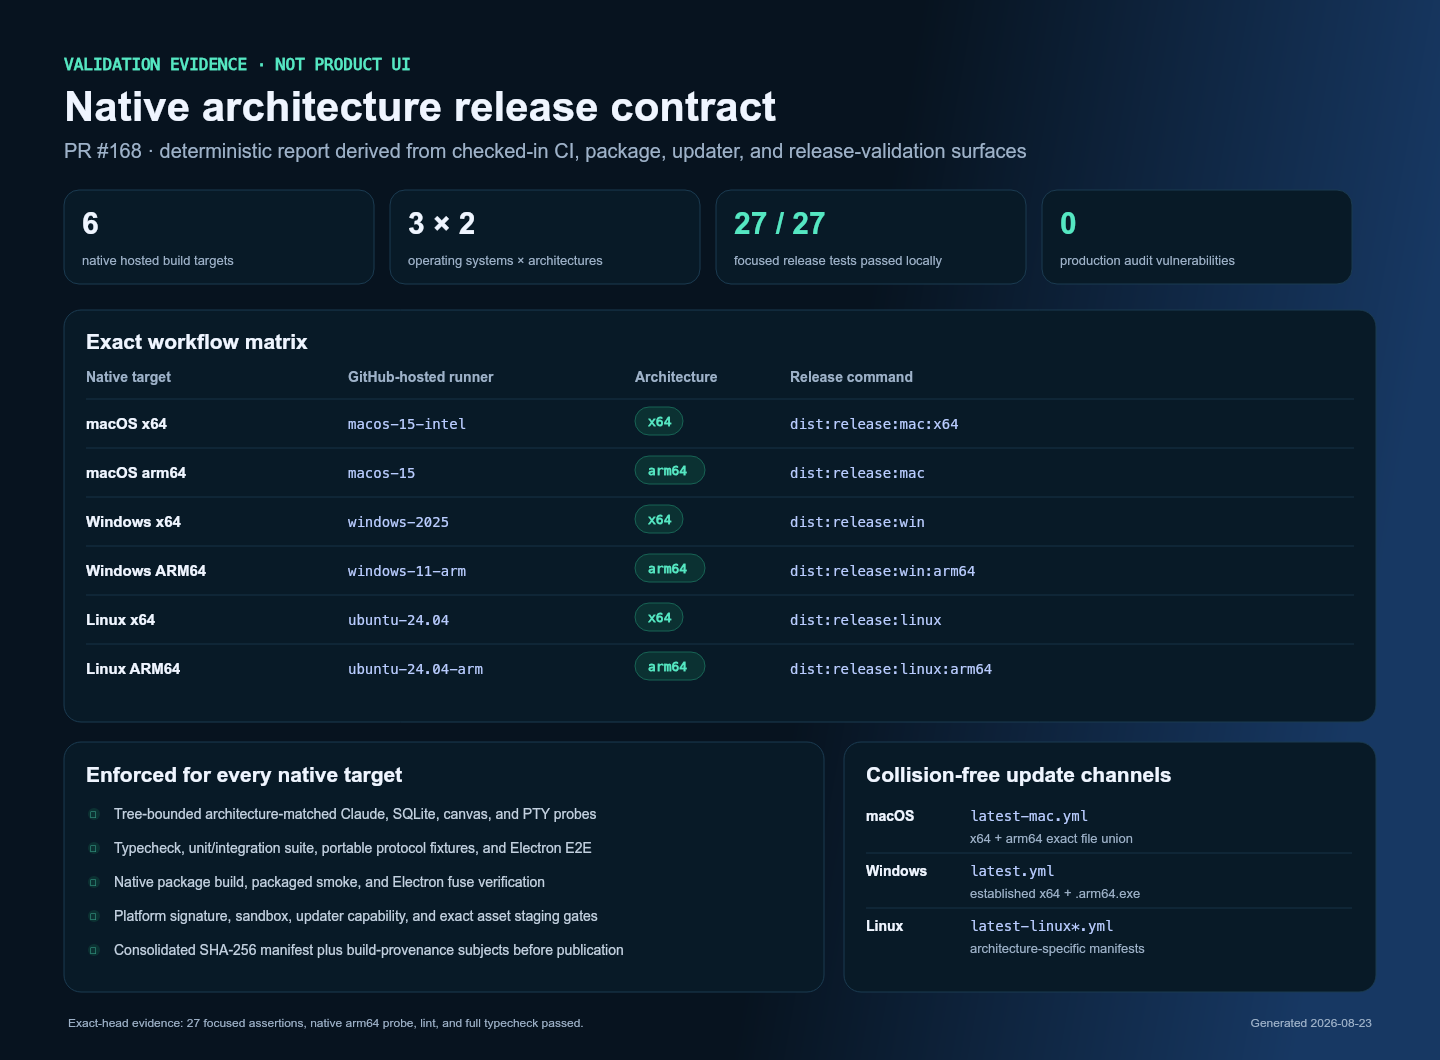
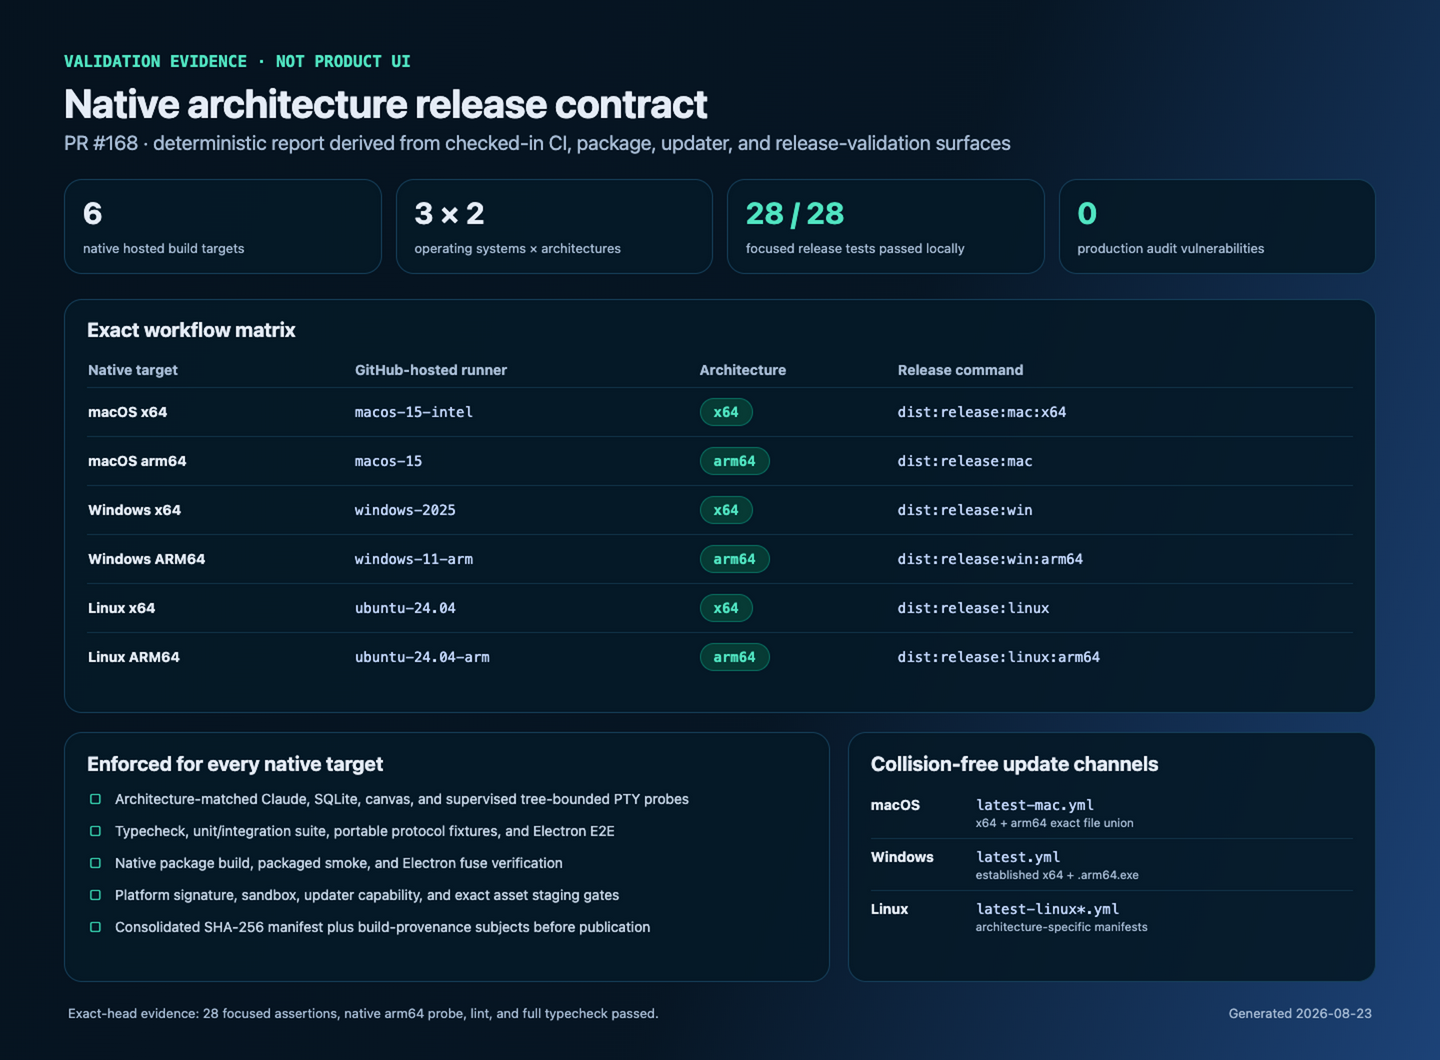
ci: supervise native PTY architecture probe

diff --git a/tests/main/cross-platform-packaged-behavior.test.ts b/tests/main/cross-platform-packaged-behavior.test.ts
@@ -390,6 +390,16 @@ describe("cross-platform packaged behavior contract", () => {
     expect(releaseUpload).not.toContain("releases/tags/$RELEASE_TAG");
   });
 
+  it("supervises the native PTY architecture probe outside the binding process", async () => {
+    const verifier = await source("scripts/verify-native-architecture.mjs");
+    const helper = await source("scripts/native-pty-probe.mjs");
+    expect(verifier).not.toContain('from "node-pty"');
+    expect(verifier).toContain('"native-pty-probe.mjs"');
+    expect(verifier).toContain("probeNativeExecutable(");
+    expect(helper).toContain('from "node-pty"');
+    expect(helper).toContain("spawnPty(executable, args");
+  });
+
   it("runs the real Kimi suite only when its CI secret is explicitly available", async () => {
     const workflow = await source(".github/workflows/ci.yml");
     expect(workflow).toContain("Run opt-in Kimi through Claude integration");
